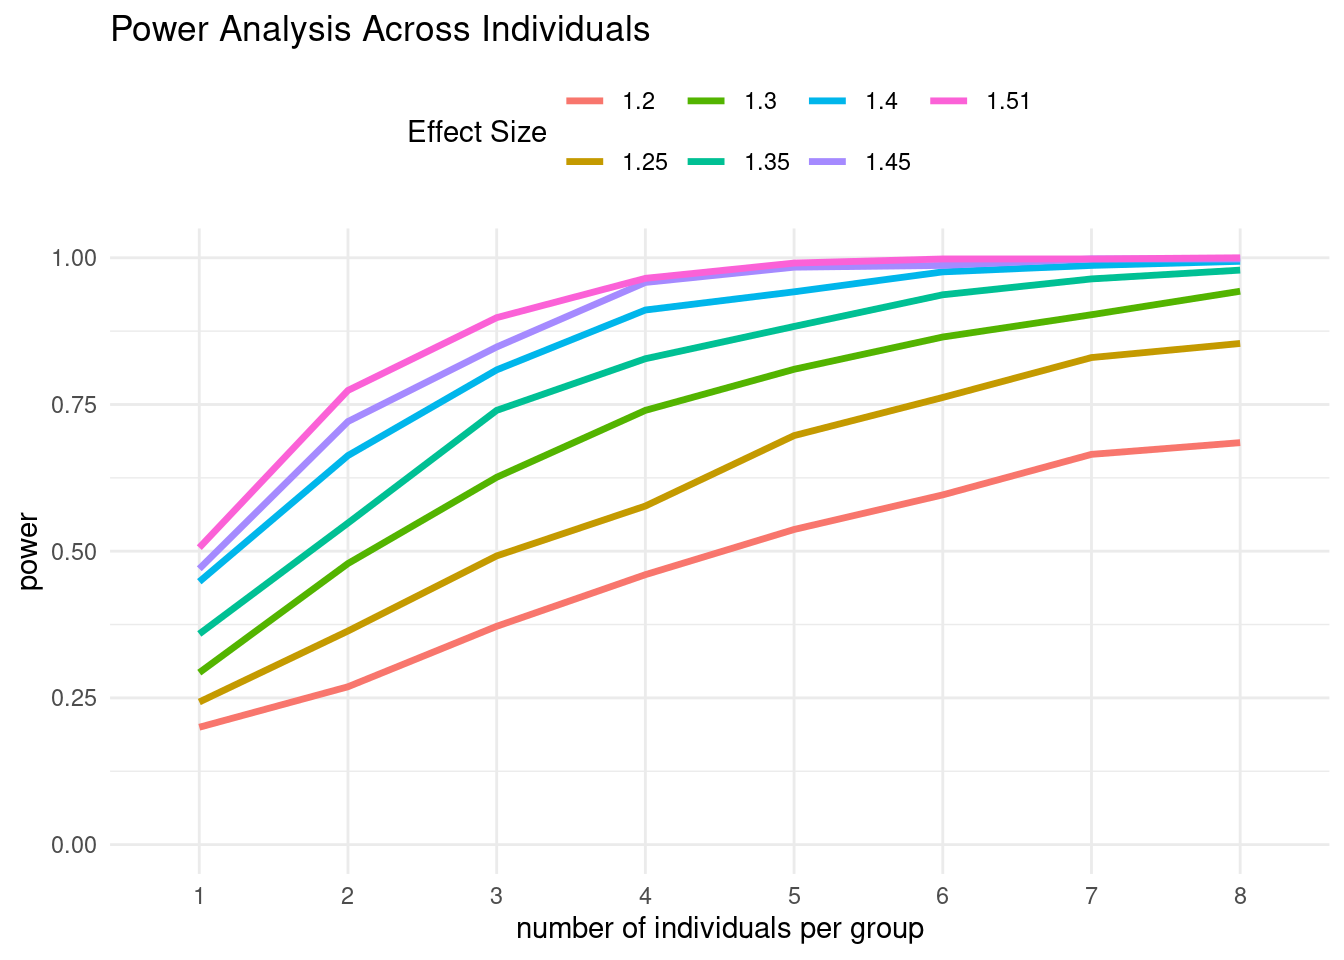
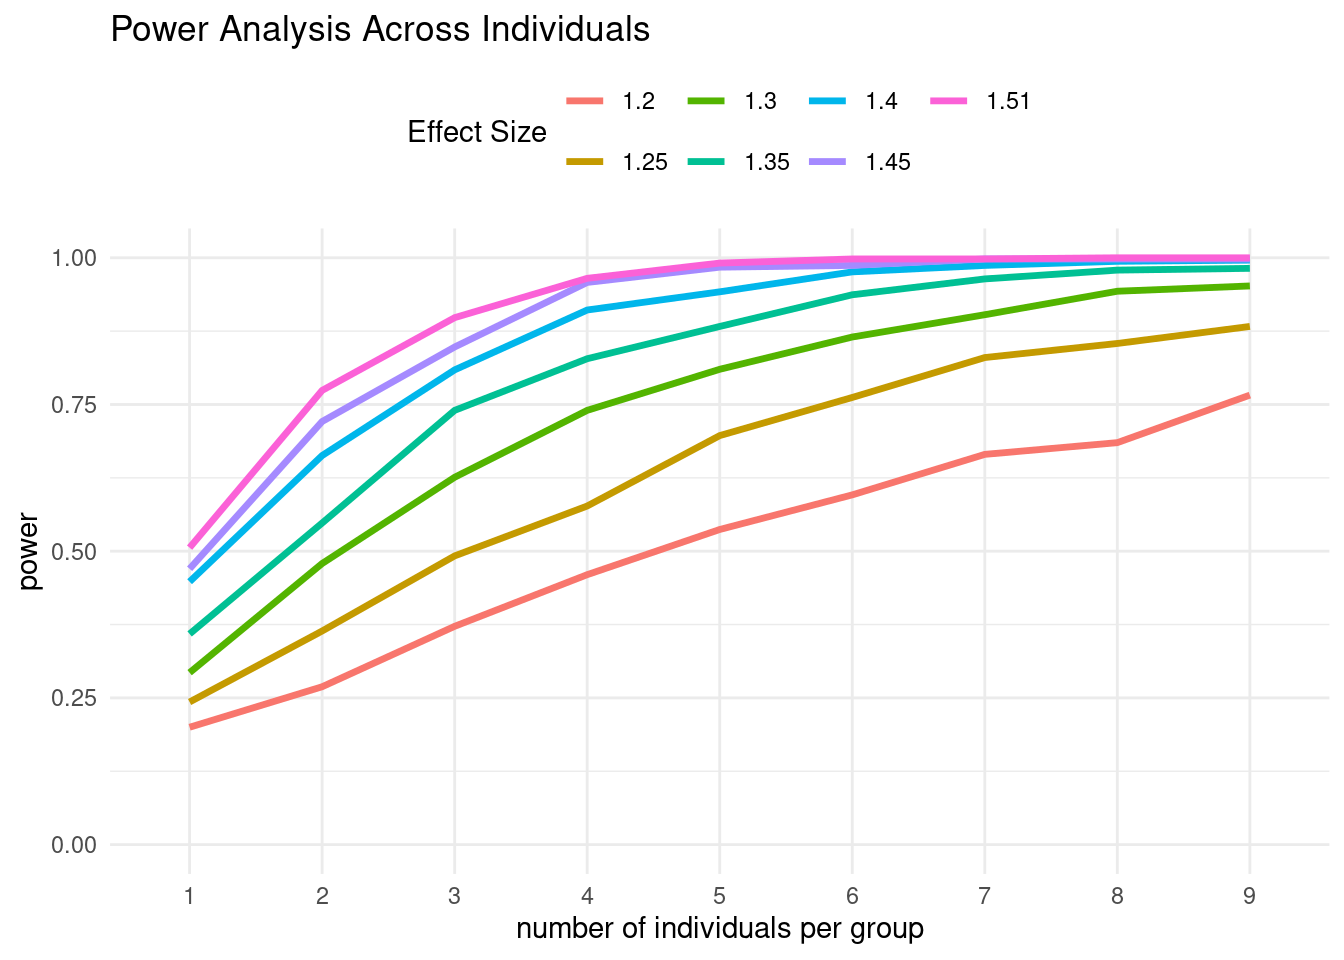
9 indv

Changed region(s): [[0.125, 0.25, 0.9375, 0.7812], [0.9062, 0.9062, 0.9375, 0.9375]]

diff --git a/docs/simulation_power_analysis.html b/docs/simulation_power_analysis.html
@@ -552,15 +552,15 @@ data/simulations/power_analysis
 <div class="panel panel-default">
 <div class="panel-heading">
 <p class="panel-title">
-<a data-toggle="collapse" data-parent="#workflowr-checks" href="#strongRepositoryversionstrongahrefhttpsgithubcomawchen55differentialDispersiontree33f41a2b1e5cc0af9c6ba2d7c4dcc474cc2b8a1ctargetblank33f41a2a">
+<a data-toggle="collapse" data-parent="#workflowr-checks" href="#strongRepositoryversionstrongahrefhttpsgithubcomawchen55differentialDispersiontreee21e96c0dffabd2fdbba73638ee0451cde65d3b6targetblanke21e96ca">
 <span class="glyphicon glyphicon-ok text-success"
 aria-hidden="true"></span> <strong>Repository version:</strong>
-<a href="https://github.com/awchen55/differentialDispersion/tree/33f41a2b1e5cc0af9c6ba2d7c4dcc474cc2b8a1c" target="_blank">33f41a2</a>
+<a href="https://github.com/awchen55/differentialDispersion/tree/e21e96c0dffabd2fdbba73638ee0451cde65d3b6" target="_blank">e21e96c</a>
 </a>
 </p>
 </div>
 <div
[2 lines of base64/hex data omitted]
 class="panel-collapse collapse">
 <div class="panel-body">
 <p>
@@ -570,7 +570,7 @@ reproducibility.
 </p>
 <p>
 The results in this page were generated with repository version
-<a href="https://github.com/awchen55/differentialDispersion/tree/33f41a2b1e5cc0af9c6ba2d7c4dcc474cc2b8a1c" target="_blank">33f41a2</a>.
+<a href="https://github.com/awchen55/differentialDispersion/tree/e21e96c0dffabd2fdbba73638ee0451cde65d3b6" target="_blank">e21e96c</a>.
 See the <em>Past versions</em> tab to see a history of the changes made
 to the R Markdown and HTML files.
 </p>
@@ -606,7 +606,6 @@ Untracked files:
     Untracked:  analysis/simulation_analysis.ipynb
     Untracked:  analysis/simulation_cardiomyocytes_analysis.Rmd
     Untracked:  analysis/simulation_normal_distribution.Rmd
-    Untracked:  code/QTL_power_analysis.R
     Untracked:  code/simulation_background_genes_bin_cv_empirical_p_value_method.py
     Untracked:  code/simulation_background_genes_bin_cv_method.py
     Untracked:  code/step3_simulations_nominal_p_value.py
@@ -673,6 +672,40 @@ Message
 </tr>
 </thead>
 <tbody>
+<tr>
+<td>
+Rmd
+</td>
+<td>
+<a href="https://github.com/awchen55/differentialDispersion/blob/e21e96c0dffabd2fdbba73638ee0451cde65d3b6/analysis/simulation_power_analysis.Rmd" target="_blank">e21e96c</a>
+</td>
+<td>
+awchen55
+</td>
+<td>
+2024-12-05
+</td>
+<td>
+update PA for more indv
+</td>
+</tr>
+<tr>
+<td>
+html
+</td>
+<td>
+<a href="https://rawcdn.githack.com/awchen55/differentialDispersion/e21e96c0dffabd2fdbba73638ee0451cde65d3b6/docs/simulation_power_analysis.html" target="_blank">e21e96c</a>
+</td>
+<td>
+awchen55
+</td>
+<td>
+2024-12-05
+</td>
+<td>
+update PA for more indv
+</td>
+</tr>
 <tr>
 <td>
 Rmd
@@ -931,7 +964,7 @@ head(read.csv(file.path(path, &quot;power_analysis_indv_50.csv&quot;)))</code></
 <div id="estimating-variance" class="section level2">
 <h2><strong>Estimating Variance</strong></h2>
 <p>We use the following equation to estimate variance by assuming a
-multiple hypergeometric model for the data. <a
+multivariate hypergeometric model for the data. <a
 href="https://www.cell.com/cell/fulltext/S0092-8674%2824%2901144-9">Kim
 et al.</a> uses method of moments to estimate the variance.</p>
 <p><span class="math display">\[
@@ -1066,7 +1099,7 @@ individuals.</p>
 data_list &lt;- list()
 path = &quot;/project2/gilad/awchen55/differentialDispersion/data/simulations/power_analysis&quot;
 
-for (n_indv in 1:8) {
+for (n_indv in 1:9) {
   # Load the RData file into a temporary environment
   temp_env &lt;- new.env()
   load(file.path(path, paste(&quot;power_analysis_100ef_indv_&quot;, n_indv, &quot;.RData&quot;, sep = &quot;&quot;)), envir = temp_env)
@@ -1119,6 +1152,17 @@ Date
 <tbody>
 <tr>
 <td>
+<a href="https://github.com/awchen55/differentialDispersion/blob/e21e96c0dffabd2fdbba73638ee0451cde65d3b6/docs/figure/simulation_power_analysis.Rmd/unnamed-chunk-13-1.png" target="_blank">e21e96c</a>
+</td>
+<td>
+awchen55
+</td>
+<td>
+2024-12-05
+</td>
+</tr>
+<tr>
+<td>
 <a href="https://github.com/awchen55/differentialDispersion/blob/33f41a2b1e5cc0af9c6ba2d7c4dcc474cc2b8a1c/docs/figure/simulation_power_analysis.Rmd/unnamed-chunk-13-1.png" target="_blank">33f41a2</a>
 </td>
 <td>
@@ -1154,6 +1198,43 @@ ggplot(combined_ef, aes(x = id, y = y, color = as.factor(round(x,2)), group = as
   theme_minimal() +
   theme(legend.position = &quot;top&quot;) </code></pre>
 <p><img src="figure/simulation_power_analysis.Rmd/unnamed-chunk-14-1.png" width="672" style="display: block; margin: auto;" /></p>
+<p>
+<button type="button" class="btn btn-default btn-xs btn-workflowr btn-workflowr-fig" data-toggle="collapse" data-target="#fig-unnamed-chunk-14-1">
+Past versions of unnamed-chunk-14-1.png
+</button>
+</p>
+<div id="fig-unnamed-chunk-14-1" class="collapse">
+<div class="table-responsive">
+<table class="table table-condensed table-hover">
+<thead>
+<tr>
+<th>
+Version
+</th>
+<th>
+Author
+</th>
+<th>
+Date
+</th>
+</tr>
+</thead>
+<tbody>
+<tr>
+<td>
+<a href="https://github.com/awchen55/differentialDispersion/blob/e21e96c0dffabd2fdbba73638ee0451cde65d3b6/docs/figure/simulation_power_analysis.Rmd/unnamed-chunk-14-1.png" target="_blank">e21e96c</a>
+</td>
+<td>
+awchen55
+</td>
+<td>
+2024-12-05
+</td>
+</tr>
+</tbody>
+</table>
+</div>
+</div>
 <br>
 <p>
 <button type="button" class="btn btn-default btn-workflowr btn-workflowr-sessioninfo" data-toggle="collapse" data-target="#workflowr-sessioninfo" style="display: block;">
